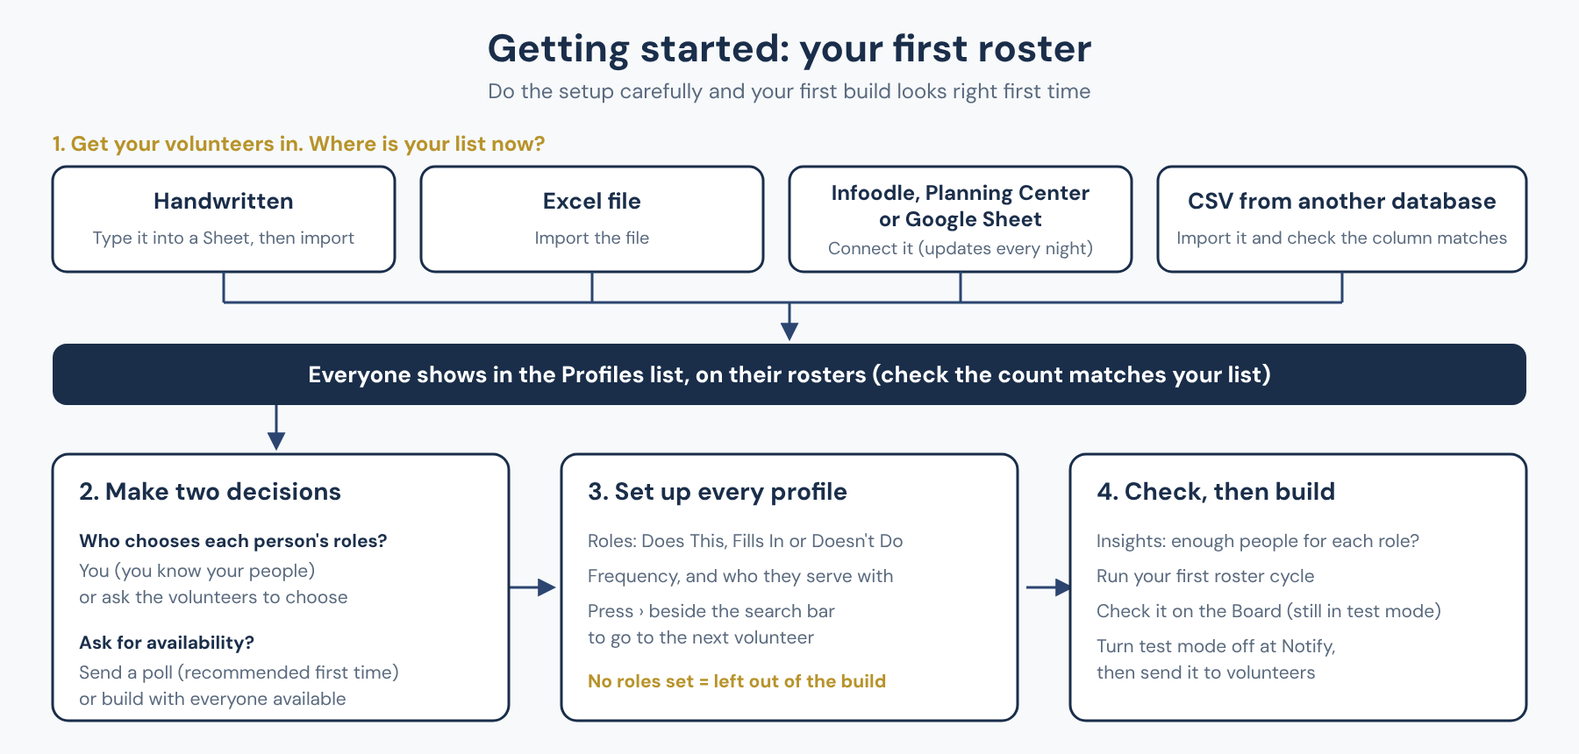
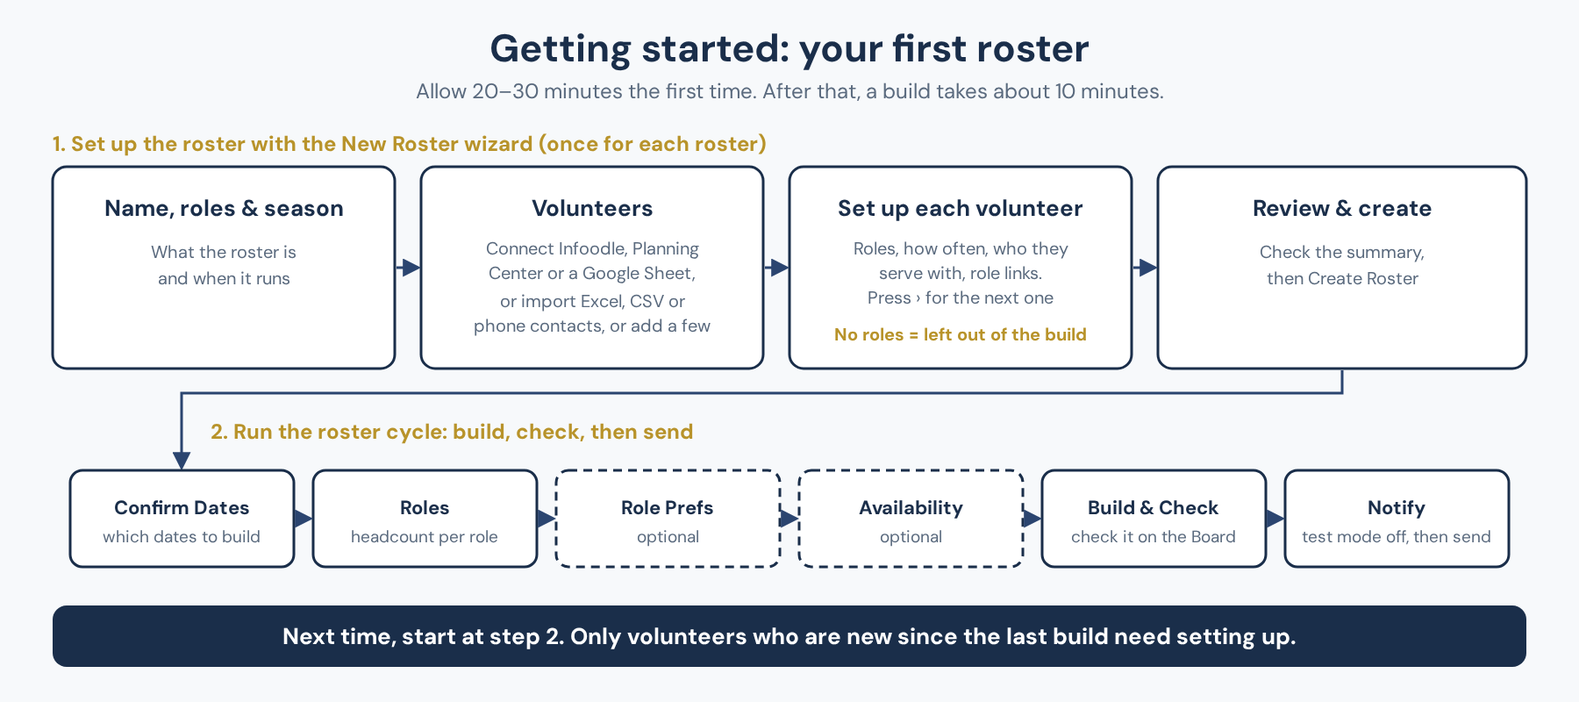
Guide: Getting started and New Roster rewritten for the new wizard
The New Roster wizard now gets the volunteers in (connect, import incl.
phone contacts, or add) and walks every profile (new Set up step) before
the roster is created, so:
- Getting started is two jobs: set up the roster with New Roster, then run
  the roster cycle. Allow 20-30 minutes the first time; about 10 minutes
  a build after that, depending on how many volunteers are new. Old
  anchors (getting-started-import/-decide/-profiles/-build) kept. The
  "Don't build yet" bridge from 428545e is replaced. Sample roster
  mentioned once.
- Flow diagram redrawn (SVG + 1800 px PNG).
- Set up a new roster: six steps; Step 4 Volunteers rewritten (Add more
  people, connect + Sync now, import and Back to setting up, the import
  summary); new Step 5 Set up (progress, gold › walk, Leave for now);
  Review is Step 6. Five new screenshots (from Guy's Riverside test).
- Build & Check: the new readiness warnings. What's Next and the import
  page mention the wizard.

Checked: every #link resolves and every image loads (local preview);
nothing new overflows at 375 px. PDF/DOCX not regenerated.

Changed region(s): [[0.0311, 0.1875, 0.9644, 0.9688], [0.2489, 0.0312, 0.7467, 0.1562]]

diff --git a/index.html b/index.html
@@ -703,10 +703,8 @@
       <button class="toc-toggle" data-target="children-getting-started" aria-label="Toggle"><span class="arrow">›</span></button>
     </div>
     <div class="toc-children" id="children-getting-started">
-      <a class="toc-item toc-h2" href="#getting-started-import">1. Get your volunteers in</a>
-      <a class="toc-item toc-h2" href="#getting-started-decide">2. Make two decisions</a>
-      <a class="toc-item toc-h2" href="#getting-started-profiles">3. Work through each profile</a>
-      <a class="toc-item toc-h2" href="#getting-started-build">4. Check, then build</a>
+      <a class="toc-item toc-h2" href="#getting-started-setup">1. Set up the roster</a>
+      <a class="toc-item toc-h2" href="#getting-started-build">2. Build, check and send</a>
     </div>
     <a class="toc-item toc-h1" href="#a-how-it-works">How Rostas Works</a>
     <div class="toc-parent" id="parent-a-concepts">
@@ -811,7 +809,8 @@
       <a class="toc-item toc-h2" href="#c-new-step2">Step 2 — Roles</a>
       <a class="toc-item toc-h2" href="#c-new-step3">Step 3 — Season</a>
       <a class="toc-item toc-h2" href="#c-new-step4">Step 4 — Volunteers</a>
-      <a class="toc-item toc-h2" href="#c-new-step5">Step 5 — Review</a>
+      <a class="toc-item toc-h2" href="#c-new-step5">Step 5 — Set up</a>
+      <a class="toc-item toc-h2" href="#c-new-step6">Step 6 — Review</a>
     </div>
     <div class="toc-parent" id="parent-c-rebuild">
       <a class="toc-parent-link" href="#c-rebuild">Run a roster cycle</a>
@@ -1039,85 +1038,80 @@
   </div>
 
   <!-- 4 Nov 2026: Getting started. A first roster built on half-finished profiles
-       looks wrong and puts coordinators off, so this walks them through the setup
-       work (import, two decisions, every profile) before the first build. -->
+       looks wrong and puts coordinators off.
+       9 Nov 2026: rewritten around the New Roster wizard, which now gets the
+       volunteers in and walks every profile before the roster is created. -->
   <h2 class="section-title" id="getting-started">Getting started: your first roster</h2>
-  <p>Your first roster is the one everyone judges Rostas by. When a first roster looks wrong (people in roles they don't do, or on dates they can't make), the cause is nearly always the setup work before the build, not the build itself. Do these four jobs carefully, in this order, and your first build should be fast and close to right first time.</p>
+  <p>Your first roster is the one everyone judges Rostas by. When a first roster looks wrong (people in roles they don't do, or on dates they can't make), the cause is nearly always the setup before the build, not the build itself. Rostas splits it into two jobs: <strong>set up the roster</strong> with the New Roster wizard, then <strong>run its first roster cycle</strong> to build, check and send it.</p>
+
+  <div class="callout callout-info">
+    <span class="callout-icon">🕑</span>
+    <strong>Allow 20–30 minutes for your first roster.</strong> Most of that is setting up each volunteer's profile, and Rostas keeps everything you set for every future build. After that, a roster cycle takes about 10 minutes, a little longer if many volunteers have joined or left since the last build.
+  </div>
 
   <!-- Drawn from "getting-started-flow.svg" (edit that, then re-export the PNG at 1800 px wide) -->
   <figure>
-    <img src="getting-started-flow.png" alt="Getting started: get your volunteers in from a handwritten list, an Excel file (imported), Infoodle, Planning Center or a Google Sheet (connected), or a CSV from another database, until everyone shows in the Profiles list. Then make two decisions (who chooses roles, and whether to ask for availability), set up every profile, and check Insights before building your first roster." class="screenshot" width="1800" height="860" loading="lazy" decoding="async">
-    <figcaption>The four jobs before your first build, in order.</figcaption>
+    <img src="getting-started-flow.png" alt="Getting started. 1: set up the roster with the New Roster wizard, once for each roster: name, roles and season; Volunteers (connect Infoodle, Planning Center or a Google Sheet, or import Excel, CSV or phone contacts, or add a few); set up each volunteer (roles, how often, who they serve with, role links, pressing › for the next one; no roles means left out of the build); then review and create. 2: run the roster cycle: Confirm Dates, Roles, Role Prefs (optional), Availability (optional), Build and Check, Notify. Next time, start at step 2: only volunteers who are new since the last build need setting up." class="screenshot" width="1800" height="800" loading="lazy" decoding="async">
+    <figcaption>Two jobs for your first roster. Every build after that starts at job 2.</figcaption>
   </figure>
 
-  <div class="callout callout-info">
-    <span class="callout-icon">ℹ</span>
-    <strong>Roles belong to a roster.</strong> A volunteer's roles are set separately for each roster they serve on, so the roster and its roles need to exist first. If you haven't made your roster yet, do <a href="#c-new-roster">Set up a new roster</a> before step 3 below.
-  </div>
+  <h3 class="sub-title" id="getting-started-setup">1. Set up the roster</h3>
+  <p>On the <strong>Builds</strong> dashboard, click the green <strong>New Roster</strong> row. The wizard (<a href="#c-new-roster">Set up a new roster</a>) first asks what the roster is and when it runs: its name, its roles and its season. Then come the two steps that decide whether your first roster comes out right.</p>
 
-  <h3 class="sub-title" id="getting-started-import">1. Get your volunteers into Rostas</h3>
-  <p>Only a name is required, but add mobile numbers and emails wherever you have them: they're how volunteers get their roster, availability requests and replacement asks. Pick the row that matches where your list lives now.</p>
+  <p id="getting-started-import"><strong>Get your volunteers in (the Volunteers step).</strong> Only a name is required, but add mobile numbers and emails wherever you have them: they're how volunteers get their roster, availability requests and replacement asks. The step asks where your list is now:</p>
   <div class="tbl-wrap">
     <table>
-      <thead><tr><th>Your list is…</th><th>What to do</th></tr></thead>
+      <thead><tr><th>Your list is…</th><th>What to do in the wizard</th></tr></thead>
       <tbody>
-        <tr><td><strong>Handwritten</strong> (or in your head)</td><td>Type it into a new Google Sheet, one person per row, with the columns <strong>Name</strong>, <strong>Mobile</strong> and <strong>Email</strong> (and <strong>Roster</strong> if you like). Then <a href="#e-import">import it</a>. For just a handful of people, <a href="#e-add">add them one at a time</a> instead.</td></tr>
-        <tr><td><strong>An Excel file</strong></td><td><a href="#e-import">Import it</a>. Rostas takes <code>.xlsx</code>, <code>.xls</code> and <code>.csv</code> files up to 5&nbsp;MB. Make sure it has one person per row before you start. Or, to keep editing your list and have Rostas follow it, upload it to Google Drive, choose <strong>File → Save as Google Sheets</strong>, and connect it (next row).</td></tr>
-        <tr><td><strong>Just the contacts on your phone</strong></td><td>No spreadsheet needed — export your phone's contacts as a vCard file and <a href="#e-import-phone">import it directly</a>. Good for a quick way to try Rostas out, or for a small organisation with no other volunteer list.</td></tr>
-        <tr><td><strong>Infoodle, Planning Center or a Google Sheet</strong></td><td>All three can be connected instead of imported: see <a href="#appendix-volunteer-database">Choosing your volunteer database</a>, and <a href="#appendix-google-sheet">Google Sheet</a> for a sheet. Names, mobiles and emails then stay up to date every night, so you never keep two lists.</td></tr>
-        <tr><td><strong>A CSV export from another database</strong></td><td><a href="#e-import">Import it</a>. Rostas matches the columns it recognises; check each match before you import, and ignore any columns you don't need.</td></tr>
+        <tr><td><strong>Infoodle, Planning Center or a Google Sheet</strong></td><td>Click <strong>Connect it</strong>. The connection panel opens right in the wizard; then click <strong>Sync now and bring them in</strong>, and your people are there to tick straight away. From then on, names, mobiles and emails stay up to date every night, so you never keep two lists. See <a href="#appendix-volunteer-database">Choosing your volunteer database</a>, and <a href="#appendix-google-sheet">Google Sheet</a> for a sheet.</td></tr>
+        <tr><td><strong>An Excel file</strong></td><td>Click <strong>Import Volunteers</strong>. Rostas takes <code>.xlsx</code>, <code>.xls</code> and <code>.csv</code> files up to 5&nbsp;MB, with one person per row (<a href="#e-import">how importing works</a>). Or, to keep editing your list and have Rostas follow it, upload it to Google Drive, choose <strong>File → Save as Google Sheets</strong>, and connect it (row above).</td></tr>
+        <tr><td><strong>Just the contacts on your phone</strong></td><td>Export them as a vCard (<code>.vcf</code>) file and click <strong>Import Volunteers</strong> (<a href="#e-import-phone">how to export your contacts</a>). Good for a small team with no other list.</td></tr>
+        <tr><td><strong>A CSV export from another database</strong></td><td>Click <strong>Import Volunteers</strong>. Rostas matches the columns it recognises; check each match before you import, and ignore any columns you don't need.</td></tr>
+        <tr><td><strong>Handwritten</strong> (or in your head)</td><td>Type it into a new Google Sheet, one person per row, with the columns <strong>Name</strong>, <strong>Mobile</strong> and <strong>Email</strong> (and <strong>Roster</strong> if you like), then connect or import it. For just a handful of people, click <strong>+ Add one at a time</strong> instead.</td></tr>
       </tbody>
     </table>
   </div>
-  <p>When you're done, open <strong>Profiles</strong> and check the number of people matches your list. If your file said which roster each person serves on, map that column during the import and they're put on their rosters for you. Otherwise click <strong>Set roster types now</strong> at the end of the import.</p>
+  <p>An import you start from the wizard comes back to it: at the end, click <strong>Back to setting up</strong> and your roster's name. A green note then says what happened to each person: who your file already put on this roster, who had no roster and is ticked for you, and who went to other rosters. Tick anyone else who serves on this roster, then click <strong>Next: Set up volunteers</strong>.</p>
 
-  <!-- 9 Nov 2026: importing doesn't put anyone on a roster unless the file had a
-       roster column, so a build straight after an import comes out empty. -->
-  <div class="callout callout-warn">
-    <span class="callout-icon">⚠</span>
-    <strong>Don't build a roster yet.</strong> A roster is built only from the volunteers who are on it. Anyone without a roster type is invisible to the build, so a roster built straight after an import, before roster types are set, comes out empty (or with only the few people who were already on it). A volunteer who is on the roster but has no roles set is left out too.
-  </div>
-  <p>So the next job, before any build, is to make sure every volunteer you've imported is on the right rosters and that their roster details are accurate:</p>
-  <ol class="steps">
-    <li><strong>Put everyone on their rosters.</strong> Use <strong>Set roster types now</strong> at the end of the import, or later tick a group in Profiles and click <a href="#e-bulk-add">Add to roster</a>. For one person, see <a href="#e-detail-add-roster">Putting a volunteer on another roster</a>.</li>
-    <li><strong>Then set up each person's profile, one after another.</strong> Pick the roster with the pills at the top of Profiles and open the first volunteer. Set their roles, frequency and anything else that applies, then press the <strong>›</strong> chevron beside the search bar at the top of the profile to go straight to the next volunteer's profile. You never have to go back to the list. <a href="#getting-started-profiles">Step 3 below</a> lists what to check on each profile.</li>
-  </ol>
-
-  <h3 class="sub-title" id="getting-started-decide">2. Make two decisions</h3>
-  <p>Decide these before you open any profiles, because they decide how much of the profile work is yours.</p>
+  <p id="getting-started-decide"><strong>Decide who chooses each volunteer's roles.</strong> Decide this before you start the profiles, because it decides how much of the profile work is yours. While you're at it, decide whether you'll ask for availability: you'll be asked at the roster cycle's Availability step.</p>
   <div class="tbl-wrap">
     <table>
       <thead><tr><th>Decision</th><th>Choose this…</th><th>…if</th></tr></thead>
       <tbody>
-        <tr><td rowspan="2"><strong>Who chooses each volunteer's roles?</strong></td><td>You set them</td><td>You know your people well. It's the fastest and most accurate route: you do it in step 3 below.</td></tr>
-        <tr><td>Ask the volunteers</td><td>You don't know who does what, or the team is large. Rostas sends each volunteer one message asking which roles suit them, at <a href="#c-rebuild-step3">Step 3 — Role Prefs</a> of your first roster cycle. You can mix the two: set the people you're sure of, then send only to volunteers with no roles set.</td></tr>
+        <tr><td rowspan="2"><strong>Who chooses each volunteer's roles?</strong></td><td>You set them</td><td>You know your people well. It's the fastest and most accurate route: you do it in the wizard's Set up step, next.</td></tr>
+        <tr><td>Ask the volunteers</td><td>You don't know who does what, or the team is large. Skip the roles in Set up; Rostas sends each volunteer one message asking which roles suit them, at <a href="#c-rebuild-step3">Step 3 — Role Prefs</a> of your first roster cycle. You can mix the two: set the people you're sure of, then send only to volunteers with no roles set.</td></tr>
         <tr><td rowspan="2"><strong>Will you ask for availability?</strong></td><td>Send an availability poll</td><td>Recommended for a first roster. Each volunteer marks the dates they can't do, at <a href="#c-rebuild-step4">Step 4 — Availability</a>, so nobody is rostered on a date they're away.</td></tr>
         <tr><td>Build with everyone available</td><td>Your team is small and you'll fix clashes on the Board yourself. Everyone is treated as free on every date.</td></tr>
       </tbody>
     </table>
   </div>
 
-  <h3 class="sub-title" id="getting-started-profiles">3. Work through each profile, one by one</h3>
-  <p>This is the step that makes the first roster look right. If you know your people, set each profile up yourself in one sitting:</p>
+  <p id="getting-started-profiles"><strong>Set up each volunteer (the Set up step).</strong> This is the step that makes the first roster look right, and it's where most of your 20–30 minutes goes. The step shows how many volunteers on the roster are set up so far. Click <strong>Start with the first volunteer</strong>, and on each profile:</p>
   <ol class="steps">
-    <li>Open <strong>Profiles</strong> and pick the roster with the pills at the top.</li>
-    <li>Click the first volunteer.</li>
     <li>Check their mobile and email, and the <strong>Active</strong>, <strong>Email</strong> and <strong>SMS</strong> toggles (<a href="#e-detail-contact">what each one does</a>).</li>
     <li>Set each of their roles to <strong>Does This</strong>, <strong>Fills In</strong> or <strong>Doesn't Do</strong> (<a href="#e-detail-roles">Roles</a>).</li>
-    <li>If they serve less often than every week, set their <a href="#e-detail-frequency">Frequency</a>. If they should always (or never) serve with someone, set <a href="#e-detail-relational">Relational rostering</a>.</li>
-    <li>Press the <strong>›</strong> arrow at the top of the profile, beside the search bar, to go straight to the next volunteer. Repeat until you reach the end.</li>
+    <li>If they serve less often than every week, set their <a href="#e-detail-frequency">Frequency</a>. If they should always (or never) serve with someone, set <a href="#e-detail-relational">Relational rostering</a>. If they do two roles at once (leading worship from the guitar, say), set a <a href="#e-detail-role-linking">role link</a>.</li>
+    <li>Press the gold <strong>›</strong> arrow beside the search bar to go straight to the next volunteer. The bar at the top counts down how many are left to set up.</li>
   </ol>
+  <p>When you reach the last volunteer, or everyone has roles, <strong>Back to roster setup</strong> turns gold: click it. If you need to stop partway, click <strong>Leave for now</strong>; the Set up step shows how far you got, and <strong>Set up the next volunteer</strong> carries on from there.</p>
   <div class="callout callout-warn">
     <span class="callout-icon">⚠</span>
-    <strong>A volunteer with no roles is left out of the build.</strong> Rostas has nothing to place them in. Before you build, use the <a href="#e-no-roles">No roles set</a> button on the Profiles page: it shows how many are left and steps through only those people.
+    <strong>A volunteer with no roles is left out of the build.</strong> Rostas has nothing to place them in. The Set up step tells you how many still have none, and so does Build &amp; Check before you build.
+  </div>
+  <p>Then click <strong>Next: Review</strong> and <strong>Create Roster</strong>. Have more than one roster (Sunday and Music, say)? Run New Roster for each one. People already in Rostas just need ticking the second time, and their contact details are already checked.</p>
+
+  <div class="callout callout-info">
+    <span class="callout-icon">ℹ</span>
+    <strong>The sample roster.</strong> A new copy of Rostas comes with a sample Music roster and made-up volunteers, so you can try the Board before your own roster is ready. They're never offered in the New Roster wizard. Remove the sample roster in Settings when you're done with it.
   </div>
 
-  <h3 class="sub-title" id="getting-started-build">4. Check, then build</h3>
+  <h3 class="sub-title" id="getting-started-build">2. Build, check and send</h3>
   <ol class="steps">
-    <li>Open <a href="#d-overview">Insights</a> for the roster. Any role with fewer <strong>People</strong> than it needs shows up here, before the build rather than after it.</li>
-    <li>Start your first <a href="#c-rebuild">roster cycle</a>. Follow the two decisions you made in step 2 at Role Prefs and Availability.</li>
+    <li><strong>Create Roster</strong> takes you straight into your first <a href="#c-rebuild">roster cycle</a>. At Role Prefs and Availability, follow the decisions you made above.</li>
+    <li>At <a href="#c-rebuild-step5">Build &amp; Check</a>, Rostas warns you first if anyone on the roster still has no roles, or if a role has nobody who does it. Set those roles (or check <a href="#d-overview">Insights</a>), or build as is.</li>
     <li>Check the result on the Board before you send it. Your copy is still in test mode, so nothing reaches a volunteer until you turn test mode off at <a href="#c-rebuild-step6">Step 6 — Notify</a>.</li>
   </ol>
+  <p>Next time, start at job 2: open the roster on the Builds dashboard and run the cycle again. Only volunteers who are new since the last build need their profiles set up, so it usually takes about 10 minutes.</p>
 
   <h2 class="section-title" id="a-how-it-works">How Rostas Works — The Big Picture</h2>
   <p>Rostas works in a rhythm that repeats every few weeks. The six-step roster cycle guides you through each stage in order:</p>
@@ -1560,7 +1554,7 @@
 
 
   <h2 class="section-title" id="b-whats-next">What's Next</h2>
-  <p>Rostas is set up. Next, get your volunteers in: head to <strong>Part C — Profiles</strong> to import or add them and set up how each one serves. Once your profiles are in, <strong>Part E — The Roster Cycle</strong> walks you through building your first roster.</p>
+  <p>Rostas is set up. Next, set up your first roster: <a href="#getting-started">Getting started</a> walks you through it. The New Roster wizard gets your volunteers in and takes you through each one's profile, then the roster cycle builds it. Allow 20–30 minutes.</p>
 
   <div class="callout callout-info">
     <span class="callout-icon">📋</span>
@@ -1569,7 +1563,7 @@
       <li>✓ Organisation name set</li>
       <li>✓ Coordinator contact details set</li>
       <li>✓ SMS test confirmed working</li>
-      <li>Volunteers imported or added</li><li>Full profile set up for each volunteer in your first roster build</li>
+      <li>First roster set up with New Roster: volunteers in, and each one's profile set up</li>
       <li>SMS and Email test modes turned off, just before you send your first real roster</li>
     </ul>
   </div>
@@ -1614,7 +1608,7 @@
         <figcaption>The summary: how many were imported, skipped as duplicates, or couldn't be imported.</figcaption>
       </figure>
     </li>
-    <li>Click <strong>Set roster types now</strong> to put the new volunteers on their rosters, or <strong>View all volunteers</strong> to do it later.</li>
+    <li>Click <strong>Set roster types now</strong> to put the new volunteers on their rosters, or <strong>View all volunteers</strong> to do it later. Started the import from the <a href="#c-new-step4">New Roster wizard</a>? The button says <strong>Back to setting up</strong> and your roster's name instead, and takes you back to the wizard.</li>
   </ol>
 
   <div class="callout callout-tip">
@@ -2363,11 +2357,11 @@
 
   <!-- ══ SET UP A NEW ROSTER ══ -->
   <h2 class="section-title" id="c-new-roster">Set up a new roster</h2>
-  <p>Run this wizard when you're setting up a roster type for the first time — for example, adding a Music roster or a Hospitality team. It takes about 10 minutes and walks you through five steps: Name &amp; Icon, Roles, Season, Volunteers, and Review.</p>
+  <p>Run this wizard when you're setting up a roster type for the first time — for example, adding a Music roster or a Hospitality team. It walks you through six steps: Name &amp; Icon, Roles, Season, Volunteers, Set up, and Review. Allow <strong>20–30 minutes</strong>: most of it is the Set up step, where you go through each volunteer's profile.</p>
 
   <div class="callout callout-info">
     <span class="callout-icon">ℹ</span>
-    <strong>You only set up a roster once per roster type.</strong> After setup is complete, every future build is a <a href="#c-rebuild">roster cycle</a> instead.
+    <strong>You only set up a roster once per roster type.</strong> After setup is complete, every future build is a <a href="#c-rebuild">roster cycle</a> instead, which takes about 10 minutes: only volunteers who are new since the last build need setting up. If you leave the wizard partway, the Builds dashboard offers to pick up where you left off.
   </div>
 
   <h3 class="sub-title" id="c-new-step1">Step 1 — Name &amp; Icon</h3>
@@ -2423,19 +2417,60 @@
   </div>
 
   <h3 class="sub-title" id="c-new-step4">Step 4 — Volunteers</h3>
-  <p>Select which volunteers from your list will serve on this roster. Tick each volunteer you want to include. Only volunteers already in Rostas appear here — if someone is missing, add them in <a href="#part-e">Profiles</a> first then return to this step.</p>
+  <p>Put everyone who serves on this roster on it. If nobody is in Rostas yet, the step opens by asking <strong>Where is your volunteer list now?</strong> with three ways to bring people in. Once people are in, it opens on the list instead: tick each volunteer who serves on this roster (use the search box on a long list, or <strong>Select all</strong>). The line above the list says how many are on this roster already, and they don't appear in it again.</p>
 
   <figure>
-    <img src="crops/new-roster-step3-volunteers.png" data-full="new-roster-step3-volunteers.png" alt="Set up a new roster: Step 4 — volunteer selection with checkboxes" class="screenshot crop" width="717" height="802" loading="lazy" decoding="async">
-    <figcaption>Step 4 — tick each volunteer who serves in this roster. Use the search field to find someone quickly if you have a large list. You can also import additional volunteers via CSV from this step.</figcaption>
+    <img src="crops/new-roster-step4-volunteers-add.png" data-full="new-roster-step4-volunteers-add.png" alt="Set up a new roster: Step 4 — Add volunteers to Lockup, with the Add more people: connect, import or add one at a time button above the list of volunteers to tick" class="screenshot crop" width="712" height="259" loading="lazy" decoding="async">
+    <figcaption>Step 4 — tick the people who serve on this roster. Someone missing? Click <strong>Add more people</strong>.</figcaption>
   </figure>
 
-  <h3 class="sub-title" id="c-new-step5">Step 5 — Review</h3>
+  <p><strong>Add more people</strong> opens the same three ways in:</p>
+  <ul>
+    <li><strong>Infoodle, Planning Center or a Google Sheet → Connect it.</strong> The <a href="#appendix-volunteer-database">volunteer database</a> panel from Settings opens right here. Once it's connected, click <strong>Sync now and bring them in</strong> so your people are there to tick without waiting for the nightly sync. If you're already connected, the card shows when it last synced, with <strong>Sync now</strong> and <strong>Change connection</strong>.</li>
+    <li><strong>A spreadsheet, CSV or your phone's contacts → Import Volunteers.</strong> Opens <a href="#e-import">Import Volunteers</a>. At the end, click <strong>Back to setting up</strong> and your roster's name to come back to this step.</li>
+    <li><strong>Just a few people → + Add one at a time.</strong></li>
+  </ul>
+
+  <figure>
+    <img src="crops/new-roster-step4-sources.png" data-full="new-roster-step4-sources.png" alt="Where is your volunteer list now? Three cards: Your volunteers come from Google Sheet, last synced, with Sync now and Change connection buttons; A spreadsheet, CSV or your phone's contacts, with Import Volunteers; Just a few people, with Add one at a time" class="screenshot crop" width="701" height="572" loading="lazy" decoding="async">
+    <figcaption>The three ways to bring people in. This church is already connected to a Google Sheet, so its card offers <strong>Sync now</strong>.</figcaption>
+  </figure>
+
+  <figure>
+    <img src="crops/new-roster-import-back.png" data-full="new-roster-import-back.png" alt="Import complete: 15 new volunteers added, 5 skipped as duplicates, with a Back to setting up Lockup button" class="screenshot crop" width="608" height="488" loading="lazy" decoding="async">
+    <figcaption>An import started from the wizard ends with <strong>Back to setting up</strong> your roster.</figcaption>
+  </figure>
+
+  <p>Back from an import, a green note says what happened to each person you imported: how many your file already put on this roster, how many had no roster in the file (they're ticked for you; untick anyone who doesn't serve here), and how many your file put on other rosters (tick them if they serve here too). When the list is right, click <strong>Next: Set up volunteers →</strong>.</p>
+
+  <h3 class="sub-title" id="c-new-step5">Step 5 — Set up</h3>
+  <p>This step is what makes your first roster right. It shows how many of the roster's volunteers are set up, with a progress bar, and how many still have no roles. A volunteer with no roles is left out of every build.</p>
+
+  <figure>
+    <img src="crops/new-roster-step5-setup.png" data-full="new-roster-step5-setup.png" alt="Set up each volunteer on Lockup: 0 of 21 Lockup volunteers are set up, 21 still have no roles, a list of what to set on each profile and a Start with the first volunteer button" class="screenshot crop" width="702" height="589" loading="lazy" decoding="async">
+    <figcaption>Step 5 — the count, what to set on each profile, and the button that starts the walk.</figcaption>
+  </figure>
+
+  <p>Click <strong>Start with the first volunteer</strong>. Their profile opens with a bar across the top: <strong>Setting up</strong> your roster, how many volunteers are left to set up, and a green progress bar. On each profile, set their <a href="#e-detail-roles">roles</a>, <a href="#e-detail-frequency">how often</a> they serve, <a href="#e-detail-relational">who they serve with</a> and any <a href="#e-detail-role-linking">role links</a>, then press the gold <strong>›</strong> arrow beside the search bar. The next volunteer appears almost at once, and your changes are saved as you go.</p>
+
+  <figure>
+    <img src="crops/new-roster-setup-walk.png" data-full="new-roster-setup-walk.png" alt="A volunteer's profile during setup: a bar reading Setting up Lockup, 1 volunteer left to set up, with a green progress bar, and the gold next arrow beside the search bar" class="screenshot crop" width="1029" height="525" loading="lazy" decoding="async">
+    <figcaption>Setting up each volunteer. The bar counts down as people get their roles; the gold <strong>›</strong> takes you to the next one.</figcaption>
+  </figure>
+
+  <p>When you reach the last volunteer, or everyone has roles, <strong>Back to roster setup</strong> turns gold: click it to return to this step. To stop partway, click <strong>Leave for now</strong>. Back on this step, <strong>Set up the next volunteer</strong> carries on from the first person still without roles.</p>
+
+  <div class="callout callout-tip">
+    <span class="callout-icon">💡</span>
+    <strong>Don't know who does what?</strong> Click <strong>Next: Review</strong> without setting roles. Once the roster is created, its <a href="#c-rebuild-step3">Role Prefs</a> step can ask every volunteer which roles suit them.
+  </div>
+
+  <h3 class="sub-title" id="c-new-step6">Step 6 — Review</h3>
   <p>The final step shows a summary of everything you've set up — roster name, icon, roles, season dates, and volunteer count. Review it carefully before confirming.</p>
 
   <figure>
-    <img src="crops/new-roster-step4-review.png" data-full="new-roster-step4-review.png" alt="Set up a new roster: Step 5 — Review showing summary of roster setup with Create Roster button" class="screenshot crop" width="717" height="702" loading="lazy" decoding="async">
-    <figcaption>Step 5 — review your roster setup before confirming. You can go back to any previous step to make changes. Once confirmed, the roster appears on the Builds dashboard.</figcaption>
+    <img src="crops/new-roster-step4-review.png" data-full="new-roster-step4-review.png" alt="Set up a new roster: Step 6 — Review showing summary of roster setup with Create Roster button" class="screenshot crop" width="717" height="702" loading="lazy" decoding="async">
+    <figcaption>Step 6 — review your roster setup before confirming. You can go back to any previous step to make changes. Once confirmed, the roster appears on the Builds dashboard.</figcaption>
   </figure>
 
   <p>Click <strong>Create Roster →</strong> to finish. Rostas takes you straight into the <a href="#c-rebuild">roster cycle</a> for your new roster, ready for its first build, and the roster appears on the Builds dashboard.</p>
@@ -2551,6 +2586,14 @@
     <img src="crops/roster-wizard-step5-build.png" data-full="roster-wizard-step5-build.png" alt="Roster cycle Step 5 — Ready to build roster? with the nudge option and the Build as is option" class="screenshot crop" width="730" height="454" loading="lazy" decoding="async">
     <figcaption>Step 5 — Build &amp; Check. Nudge the stragglers, or build now.</figcaption>
   </figure>
+
+  <p><strong>Before you build, Rostas checks the roster is ready.</strong> If something would make the build come out empty or thin, it says so first:</p>
+  <ul>
+    <li><strong>Nobody on the roster yet:</strong> there's no build button, just <strong>Open Profiles</strong> to put people on it.</li>
+    <li><strong>Some volunteers have no roles:</strong> a <strong>Set their roles first</strong> card comes before <strong>Build as is</strong>, saying how many would be left out. Its button steps through just those people, and the <strong>Back to wizard</strong> bar brings you back here.</li>
+    <li><strong>A role nobody does:</strong> a note names it, since it will be left empty, with a link to <a href="#d-overview">Insights</a>.</li>
+  </ul>
+  <p>These are warnings, not locks: <strong>Build as is</strong> is always there when people are on the roster.</p>
 
   <p>The roster engine looks at every volunteer's availability, role preferences, how recently they've served and how often they want to serve, and fills every slot it can (see <a href="#a-engine">The Intelligent Matching Engine</a>). A build can take up to 5–10 minutes for a big roster. When it's finished, the <strong>Roster Board opens by itself</strong>.</p>
 
